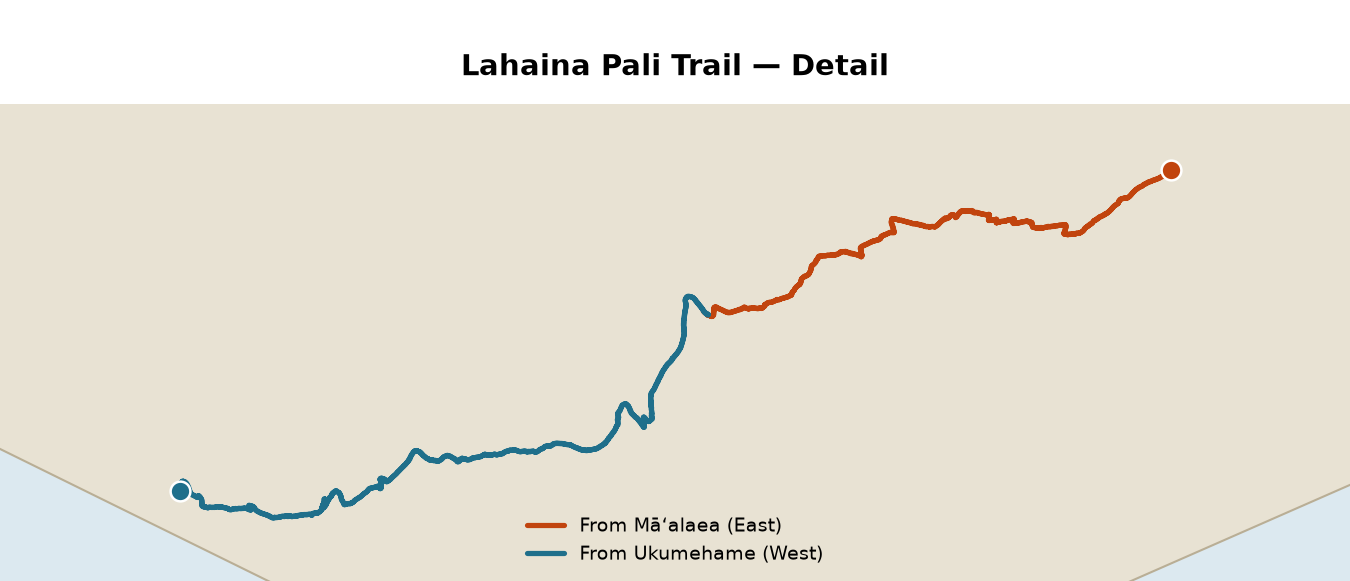
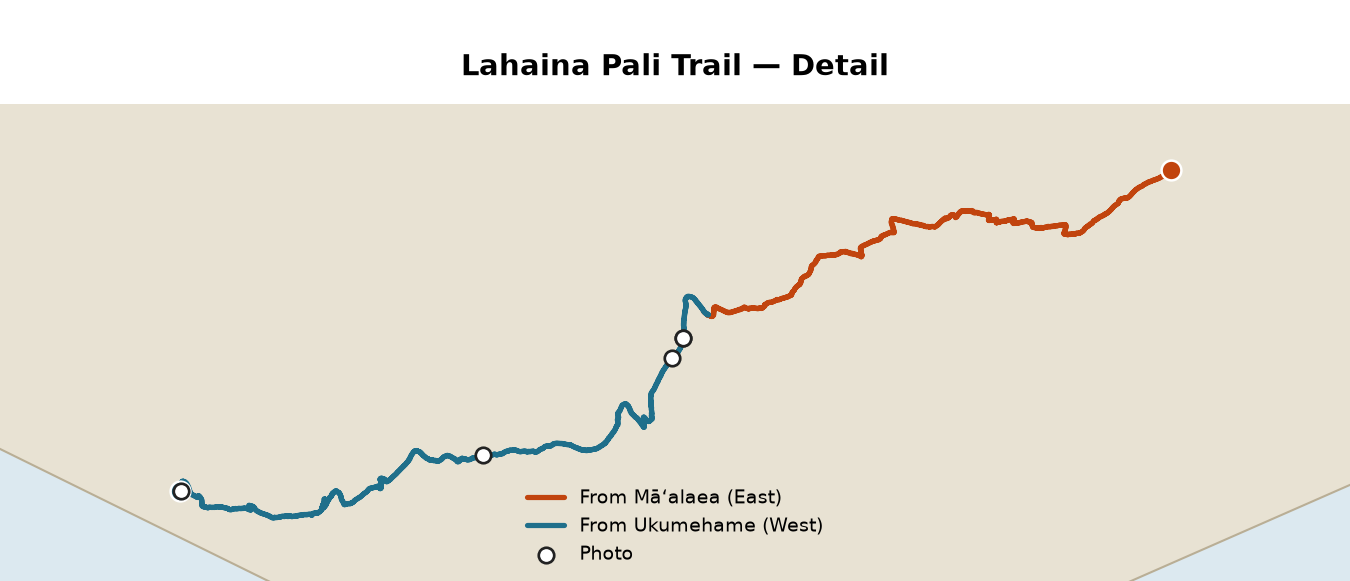
Add geotagged photos to the Lahaina Pali Trail post
Five photos from the Ukumehame (West) run, imported via a new
import_photos.py tool: reads GPS + DateTimeOriginal from HEIC/JPEG EXIF,
matches each photo to its run by date, converts to web JPEG, and writes a
`photos:` entry (lat/lon/elevation/mile-marker/caption) into the page front
matter. Mile-marker placement matches by nearest timestamp against the
run's own TCX trackpoints rather than nearest GPS point, since this is an
out-and-back trail where the start and a later point can sit meters apart
in space but far apart in time.

generate_maps.py now plots a marker for each photo on the trail detail map,
and the page has a Photos gallery section with caption, mile, elevation,
and local (HST) time per photo.

Note: chat-uploaded individual images had GPS/timestamp EXIF stripped: a
zip of the originals (via iOS Files > Compress) came through intact.

diff --git a/content/report/adhoc/lahaina-pali-trail-running/tools/import_photos.py b/content/report/adhoc/lahaina-pali-trail-running/tools/import_photos.py
@@ -1,0 +1,189 @@
+#!/usr/bin/env python3
+# /// script
+# requires-python = ">=3.9"
+# dependencies = ["pillow", "pillow-heif", "ruamel.yaml"]
+# ///
+"""
+Import geotagged photos into the Lahaina Pali Trail page: reads GPS +
+DateTimeOriginal from each photo's EXIF, matches it to the run it was taken
+on (by date), converts it to a web-friendly JPEG, and writes a `photos:`
+entry into the page front matter.
+
+Drop photos (HEIC or JPEG, with GPS + timestamp intact) in the source
+directory, then run:
+    uv run content/report/adhoc/lahaina-pali-trail-running/tools/import_photos.py
+
+A note on GPS/timestamp survival: chat upload pipelines commonly strip EXIF
+from individual image uploads. Zipping the originals first (e.g. iOS Files
+app > Select > Compress, after confirming "Location" is on in the share
+sheet) tends to preserve it, since the archive isn't re-encoded the way a
+single image is.
+"""
+
+import sys
+from datetime import datetime, timedelta, timezone
+from fractions import Fraction
+from pathlib import Path
+
+import pillow_heif
+from PIL import Image, ImageOps
+from ruamel.yaml import YAML
+
+pillow_heif.register_heif_opener()
+
+sys.path.insert(0, str(Path(__file__).parent))
+from lib import load_tcx  # noqa: E402
+
+HST_OFFSET = timedelta(hours=-10)  # Hawaii Standard Time, no DST
+
+BUNDLE_DIR = Path(__file__).parent.parent  # content/report/adhoc/lahaina-pali-trail-running/
+PAGE_PATH = BUNDLE_DIR / "index.md"
+OUT_DIR = BUNDLE_DIR / "images" / "photos"
+SOURCE_DIR = Path.home() / "Documents" / "lahaina pali trail running" / "photos"
+TCX_DIR = Path.home() / "Documents" / "lahaina pali trail running"
+
+MAX_DIMENSION = 1600
+GPS_IFD, EXIF_IFD = 0x8825, 0x8769
+DATETIME_ORIGINAL_TAG = 36867
+
+
+def dms_to_decimal(dms, ref):
+    deg, minute, sec = (float(Fraction(v)) for v in dms)
+    value = deg + minute / 60 + sec / 3600
+    return -value if ref in ("S", "W") else value
+
+
+def read_exif(path):
+    img = Image.open(path)
+    exif = img.getexif()
+    gps = exif.get_ifd(GPS_IFD)
+    exif_ifd = exif.get_ifd(EXIF_IFD)
+    if not gps or 2 not in gps or 4 not in gps:
+        return None
+
+    lat = dms_to_decimal(gps[2], gps.get(1, "N"))
+    lon = dms_to_decimal(gps[4], gps.get(3, "E"))
+    elev_m = float(gps[6]) if 6 in gps else None
+
+    dt_raw = exif_ifd.get(DATETIME_ORIGINAL_TAG)
+    taken_at = datetime.strptime(dt_raw, "%Y:%m:%d %H:%M:%S") if dt_raw else None
+
+    return img, lat, lon, elev_m, taken_at
+
+
+def match_run(taken_at, runs_by_date):
+    if taken_at is None:
+        return None
+    return runs_by_date.get(taken_at.strftime("%Y-%m-%d"))
+
+
+def nearest_mile(tcx, taken_at):
+    """Distance along the matched run's own track at the photo's timestamp.
+
+    Matched by time rather than nearest GPS point: this trail is an
+    out-and-back, so the start and turnaround-adjacent points can sit only
+    meters apart from points recorded much later (or earlier) in the same
+    run, and a spatial nearest-neighbor search can't tell those apart.
+    Every trackpoint has its own timestamp, so matching on time is
+    unambiguous.
+    """
+    taken_at_utc = taken_at.replace(tzinfo=timezone.utc) - HST_OFFSET
+    pts = tcx["points"]
+    idx = min(
+        range(len(pts)),
+        key=lambda i: abs(datetime.fromisoformat(pts[i]["time"].replace("Z", "+00:00")) - taken_at_utc),
+    )
+    return round(pts[idx]["dist_m"] / 1609.344, 2)
+
+
+def load_page():
+    text = PAGE_PATH.read_text()
+    _, fm_text, body = text.split("---", 2)
+    yaml = YAML()
+    yaml.preserve_quotes = True
+    yaml.width = 4096
+    data = yaml.load(fm_text)
+    return data, body
+
+
+def save_page(data, body):
+    import io
+    yaml = YAML()
+    yaml.preserve_quotes = True
+    yaml.width = 4096
+    yaml.default_flow_style = False
+    stream = io.StringIO()
+    yaml.dump(data, stream)
+    PAGE_PATH.write_text(f"---\n{stream.getvalue()}---{body}")
+
+
+def save_web_jpeg(img, out_path):
+    img = ImageOps.exif_transpose(img)  # bake in orientation; we're stripping EXIF
+    img.thumbnail((MAX_DIMENSION, MAX_DIMENSION))
+    img.convert("RGB").save(out_path, "JPEG", quality=85)
+
+
+def main():
+    OUT_DIR.mkdir(parents=True, exist_ok=True)
+    SOURCE_DIR.mkdir(parents=True, exist_ok=True)
+
+    data, body = load_page()
+    existing_files = {p["file"] for p in data.get("photos", [])}
+
+    runs_by_date = {r["date"]: r for r in data.get("runs", [])}
+    tcx_by_trailhead = {}
+    for path in TCX_DIR.glob("activity_*.tcx"):
+        tcx = load_tcx(path)
+        tcx_by_trailhead[tcx["trailhead"]] = tcx
+
+    source_files = sorted(
+        p for p in SOURCE_DIR.iterdir()
+        if p.suffix.lower() in (".heic", ".heif", ".jpg", ".jpeg")
+    )
+    new_files = [p for p in source_files if f"{p.stem.lower()}.jpg" not in existing_files]
+
+    if not new_files:
+        print("No new photos found. Nothing to do.")
+        return
+
+    photos = list(data.get("photos", []))
+    print(f"Found {len(new_files)} new photo(s):")
+    for path in new_files:
+        result = read_exif(path)
+        if result is None:
+            print(f"  {path.name}: no GPS data, skipping")
+            continue
+        img, lat, lon, elev_m, taken_at = result
+
+        run = match_run(taken_at, runs_by_date)
+        trailhead = run["trailhead"] if run else None
+        tcx = tcx_by_trailhead.get(trailhead)
+        mile = nearest_mile(tcx, taken_at) if tcx and taken_at else None
+
+        out_name = f"{path.stem.lower()}.jpg"
+        save_web_jpeg(img, OUT_DIR / out_name)
+
+        entry = {
+            "file": out_name,
+            "taken_at": taken_at.strftime("%Y-%m-%dT%H:%M:%S-10:00") if taken_at else None,
+            "lat": round(lat, 5),
+            "lon": round(lon, 5),
+            "elev_ft": int(round(elev_m * 3.28084)) if elev_m is not None else None,
+            "trailhead": trailhead,
+            "mile": mile,
+            "caption": "",
+        }
+        photos.append(entry)
+        print(f"  {path.name} -> {out_name}  {entry['taken_at']}  "
+              f"{lat:.5f},{lon:.5f}  {entry['elev_ft']} ft  mile {mile} ({trailhead})")
+
+    photos.sort(key=lambda p: p.get("taken_at") or "")
+    data["photos"] = photos
+
+    save_page(data, body)
+    print(f"\nUpdated: {PAGE_PATH.relative_to(BUNDLE_DIR)}")
+    print(f"  {len(new_files)} photo(s) added — fill in `caption:` for each in index.md")
+
+
+if __name__ == "__main__":
+    main()

diff --git a/content/report/adhoc/lahaina-pali-trail-running/tools/generate_maps.py b/content/report/adhoc/lahaina-pali-trail-running/tools/generate_maps.py
@@ -1,7 +1,7 @@
 #!/usr/bin/env python3
 # /// script
 # requires-python = ">=3.9"
-# dependencies = ["matplotlib"]
+# dependencies = ["matplotlib", "ruamel.yaml"]
 # ///
 """
 Render two maps for the Lahaina Pali Trail page from the recorded TCX
@@ -26,11 +26,13 @@ from pathlib import Path
 import matplotlib
 matplotlib.use("Agg")
 import matplotlib.pyplot as plt
+from ruamel.yaml import YAML
 
 sys.path.insert(0, str(Path(__file__).parent))
 from lib import load_tcx  # noqa: E402
 
 BUNDLE_DIR = Path(__file__).parent.parent  # content/report/adhoc/lahaina-pali-trail-running/
+PAGE_PATH = BUNDLE_DIR / "index.md"
 TCX_DIR = Path.home() / "Documents" / "lahaina pali trail running"
 OUT_DIR = BUNDLE_DIR / "images"
 ISLANDS_PATH = Path(__file__).parent / "data" / "maui-county.geojson"
@@ -49,6 +51,14 @@ LAND_EDGE_COLOR = "#b9ae95"
 
 TITLE_ALLOWANCE_IN = 0.7
 FIG_W = 9.0
+
+
+def load_photos():
+    yaml = YAML()
+    text = PAGE_PATH.read_text()
+    _, fm_text, _ = text.split("---", 2)
+    data = yaml.load(fm_text)
+    return data.get("photos", [])
 
 
 def load_islands():
@@ -81,8 +91,17 @@ def draw_tracks(ax, runs, lon_scale, linewidth):
                    zorder=4, edgecolor="white", linewidth=1.2)
 
 
+def draw_photos(ax, photos, lon_scale):
+    if not photos:
+        return
+    lons = [p["lon"] * lon_scale for p in photos]
+    lats = [p["lat"] for p in photos]
+    ax.scatter(lons, lats, marker="o", s=55, facecolor="white", edgecolor="#222222",
+               linewidth=1.3, zorder=5, label="Photo")
+
+
 def make_map(out_path, islands, runs, lon_scale, lon_mid, lat_mid, lon_span, lat_span,
-             title, track_linewidth, legend_loc):
+             title, track_linewidth, legend_loc, photos=None):
     fig_h = FIG_W * (lat_span / lon_span) + TITLE_ALLOWANCE_IN
     fig, ax = plt.subplots(figsize=(FIG_W, fig_h), dpi=150)
     fig.subplots_adjust(top=1 - TITLE_ALLOWANCE_IN / fig_h, bottom=0, left=0, right=1)
@@ -91,6 +110,7 @@ def make_map(out_path, islands, runs, lon_scale, lon_mid, lat_mid, lon_span, lat
 
     draw_islands(ax, islands, lon_scale)
     draw_tracks(ax, runs, lon_scale, linewidth=track_linewidth)
+    draw_photos(ax, photos, lon_scale)
 
     ax.set_xlim(lon_mid - lon_span / 2, lon_mid + lon_span / 2)
     ax.set_ylim(lat_mid - lat_span / 2, lat_mid + lat_span / 2)
@@ -116,6 +136,7 @@ def main():
 
     runs = [load_tcx(p) for p in tcx_files]
     islands = load_islands()
+    photos = load_photos()
 
     all_lats = [p["lat"] for r in runs for p in r["points"]]
     all_lons = [p["lon"] for r in runs for p in r["points"]]
@@ -152,6 +173,7 @@ def main():
         OUT_DIR / "overview-trail.png", islands, runs, lon_scale,
         trail_lon_mid, trail_lat_mid, trail_lon_span, trail_lat_span,
         title="Lahaina Pali Trail — Detail", track_linewidth=2.5, legend_loc="lower center",
+        photos=photos,
     )
 
 

diff --git a/content/report/adhoc/lahaina-pali-trail-running/index.md b/content/report/adhoc/lahaina-pali-trail-running/index.md
@@ -133,6 +133,47 @@ runs:
     max_hr: 125
     calories: 31
   notes: ''
+photos:
+- file: img_7967.jpg
+  taken_at: '2026-07-27T06:07:26-10:00'
+  lat: 20.79192
+  lon: -156.56375
+  elev_ft: 36
+  trailhead: west
+  mile: 0.0
+  caption: Trailhead sign at the Ukumehame (West) end, right at the start.
+- file: img_7991.jpg
+  taken_at: '2026-07-27T07:03:20-10:00'
+  lat: 20.79928
+  lon: -156.53795
+  elev_ft: 1591
+  trailhead: west
+  mile: 2.89
+  caption: Kaheawa Wind Farm turbines along the ridge, looking down the West Maui coast.
+- file: img_7992.jpg
+  taken_at: '2026-07-27T07:03:23-10:00'
+  lat: 20.79929
+  lon: -156.53795
+  elev_ft: 1590
+  trailhead: west
+  mile: 2.89
+  caption: Same spot, turned the other way — central Maui isthmus under low clouds.
+- file: img_7993.jpg
+  taken_at: '2026-07-27T07:04:19-10:00'
+  lat: 20.79831
+  lon: -156.53851
+  elev_ft: 1580
+  trailhead: west
+  mile: 2.96
+  caption: The wind farm's gravel access road along the ridgeline.
+- file: img_7995.jpg
+  taken_at: '2026-07-27T07:18:43-10:00'
+  lat: 20.79367
+  lon: -156.54823
+  elev_ft: 1124
+  trailhead: west
+  mile: 3.94
+  caption: Heading back down the rocky ridge trail toward the coast.
 ---
 
 {{< summary.inline >}}
@@ -215,6 +256,21 @@ runs:
   </tr>
   {{ end }}
 </table>
+{{ end }}
+
+{{ with .Page.Params.photos }}
+<h2>Photos</h2>
+<div style="display:flex;flex-wrap:wrap;gap:16px;">
+  {{ range . }}
+  <figure style="width:280px;margin:0;">
+    <img src="images/photos/{{ .file }}" alt="{{ .caption }}" style="width:100%;height:auto;border-radius:4px;">
+    <figcaption style="font-size:0.85em;margin-top:4px;">
+      {{ .caption }}<br>
+      <span style="opacity:.6;">mile {{ .mile }} &middot; {{ .elev_ft | lang.FormatNumber 0 }} ft &middot; {{ dateFormat "3:04 PM" .taken_at }}</span>
+    </figcaption>
+  </figure>
+  {{ end }}
+</div>
 {{ end }}
 
 {{< /detail.inline >}}
